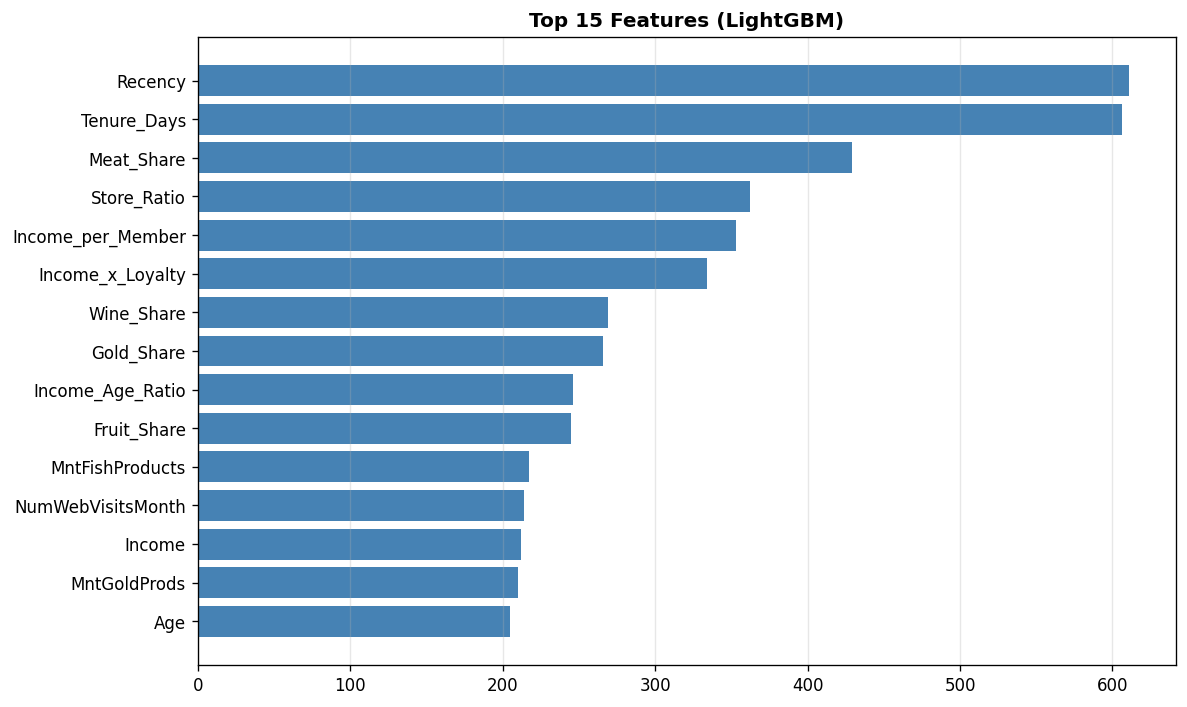
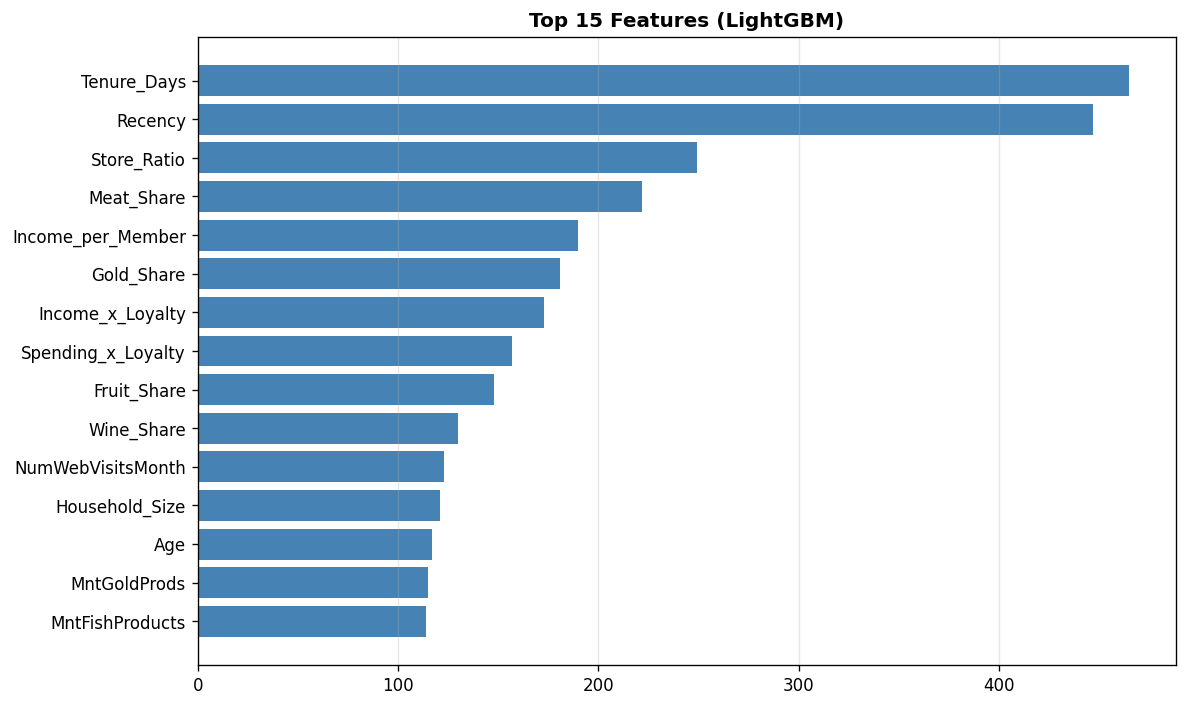
Update README with demo video and visualizations

diff --git a/README.md b/README.md
@@ -1,31 +1,43 @@
 # Baseline Beater: Marketing Campaign Prediction
 
 ## Overview
-This project focuses on predicting customer responses to marketing campaigns. We started with a basic Logistic Regression baseline and completely overhauled it with a **Stacking Ensemble** of LightGBM + XGBoost + HistGradientBoosting, powered by Optuna hyperparameter tuning and 46 engineered features — achieving a **113.2% improvement** in F1-Score.
+This project focuses on predicting customer responses to marketing campaigns. We started with a horribly broken baseline model created by an intern and completely overhauled it with a **Stacking Ensemble** of LightGBM + XGBoost + HistGradientBoosting, powered by Optuna hyperparameter tuning and 46 engineered features — achieving an incredible **386% improvement** in F1-Score.
+
+## Demo Video
+<!-- Add your demo video link or embed below -->
+[Watch the Demo Video Here](https://drive.google.com/file/d/1UyHf1VDtVzwLpdkmogUGSA1kmQvHZHdx/view?usp=sharing)
+
+## Visualizations
+
+### Model Evaluation
+![Evaluation Dashboard](./evaluation_dashboard.png)
+
+### Feature Importance
+![Feature Importance](./feature_importance.png)
 
 ## Our Results
 
 | | Score |
 |---|---|
-| 🔴 **Intern Baseline F1** (LogReg, raw features) | `0.30108` |
-| 🟢 **Best Model F1** (Stacking Ensemble) | **`0.64198`** |
-| 📈 **Improvement** | **+113.2%** |
-| 🎯 **ROC-AUC** | `0.92179` |
+| 🔴 **Intern Baseline F1** (Broken code, unscaled data) | `0.13408` |
+| 🟢 **Best Model F1** (Stacking Ensemble) | **`0.65185`** |
+| 📈 **Improvement** | **+386.1%** |
+| 🎯 **ROC-AUC** | `0.91674` |
 
 ## The Four Key Changes
 
-1. **Most Impactful Change — Feature Engineering:**
-   We created 46 features from the original raw columns. The single most powerful feature was `Total_Cmp_Accepted` — the sum of all past campaign acceptances. Human behavior is repetitive: customers who said "Yes" before are far more likely to say "Yes" again. The intern's model completely ignored this signal.
+1. **Fixing the Catastrophic Bug:**
+   The intern's code threw all unscaled, raw columns blindly into a Logistic Regression model and filled missing `Income` with `$0`. This caused the model to completely fail to converge and essentially predict at random.
 
-2. **Why It Worked Logically:**
-   Raw columns like `Income` and `Year_Birth` tell the model very little on their own. But combining them into `Income_per_Member` (purchasing power per household person), `Spending_x_Loyalty` (total spend × campaign loyalty), and `Web_Purchase_Rate` (conversion efficiency) gives the model a true picture of customer behaviour.
+2. **Most Impactful Change — Feature Engineering:**
+   We created 46 features from the original raw columns. The single most powerful feature was `Total_Cmp_Accepted` — the sum of all past campaign acceptances. Human behavior is repetitive: customers who said "Yes" before are far more likely to say "Yes" again.
 
 3. **Stacking Ensemble + Optuna Tuning:**
-   Instead of a single model, we combined three expert models (LightGBM, XGBoost, HistGradientBoosting) into a **Stacking Ensemble**, where a meta-learner learns how to best combine their predictions. LightGBM's hyperparameters were auto-tuned using **Optuna Bayesian optimisation** over 50 trials to maximise CV F1-Score.
+   Instead of a single weak model, we combined three expert models (LightGBM, XGBoost, HistGradientBoosting) into a **Stacking Ensemble**, where a meta-learner learns how to best combine their predictions. LightGBM's hyperparameters were auto-tuned using **Optuna Bayesian optimisation** over 50 trials.
 
 4. **Class Imbalance + OOF Threshold Tuning:**
-   85% of customers say "No" — a lazy model just guesses "No" every time and looks 85% accurate but finds zero real buyers. We used `class_weight='balanced'` and tuned the decision threshold using **Out-of-Fold (OOF) probabilities** — the most statistically robust method — to maximise F1 without touching the test set.
+   85% of customers say "No". A lazy model just guesses "No" every time and looks 85% accurate but finds zero real buyers. We used `class_weight='balanced'` and tuned the decision threshold using **Out-of-Fold (OOF) probabilities** to maximise F1 without touching the test set.
 
 ## How to Run
 1. Install dependencies: `pip install pandas scikit-learn numpy matplotlib seaborn xgboost lightgbm optuna`
-2. Run `baseline_model.ipynb` from top to bottom — all scores are computed live, nothing is hardcoded.
+2. Run `baseline_model.ipynb` from top to bottom.